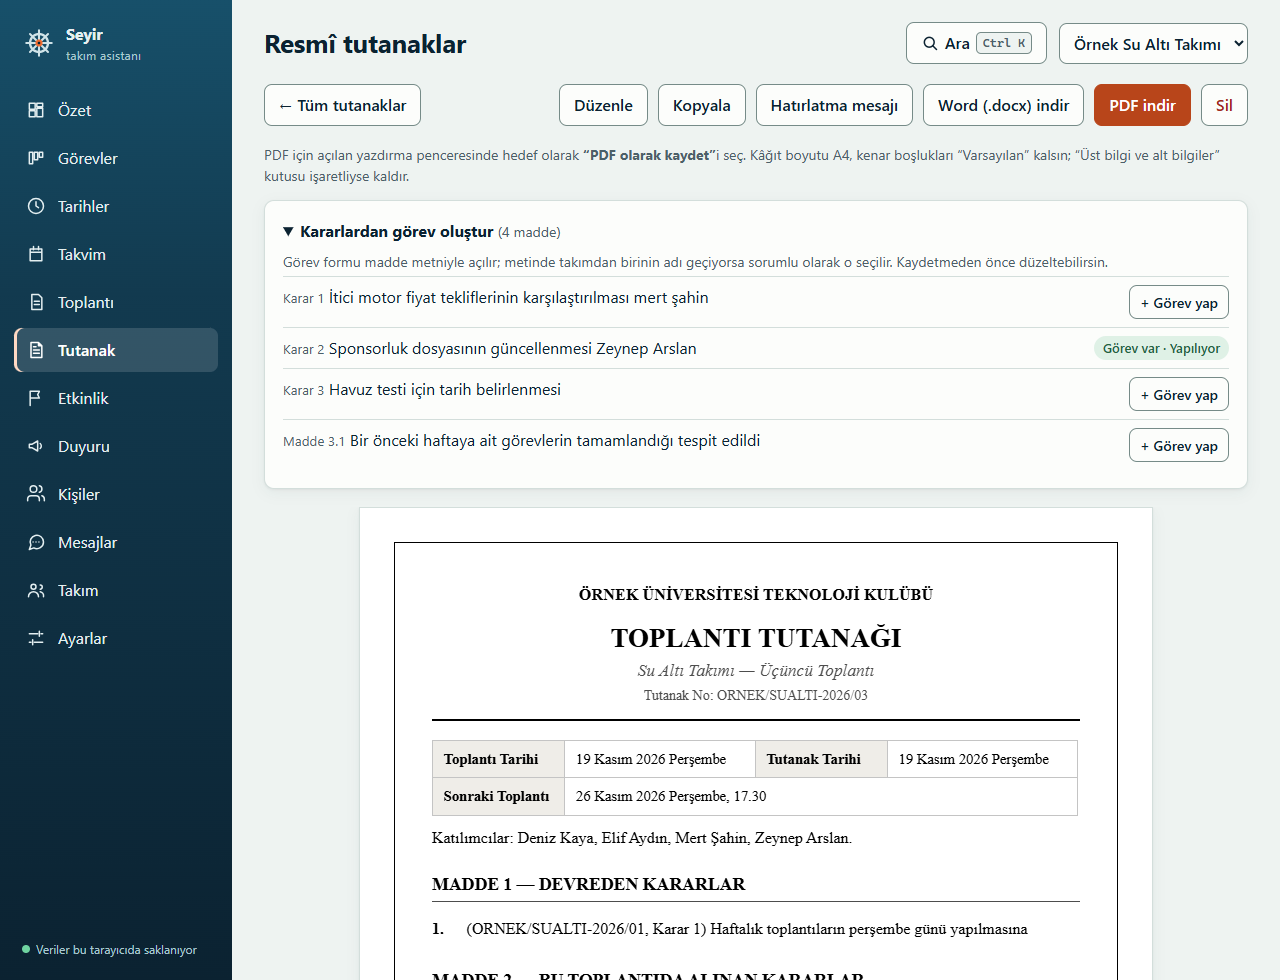
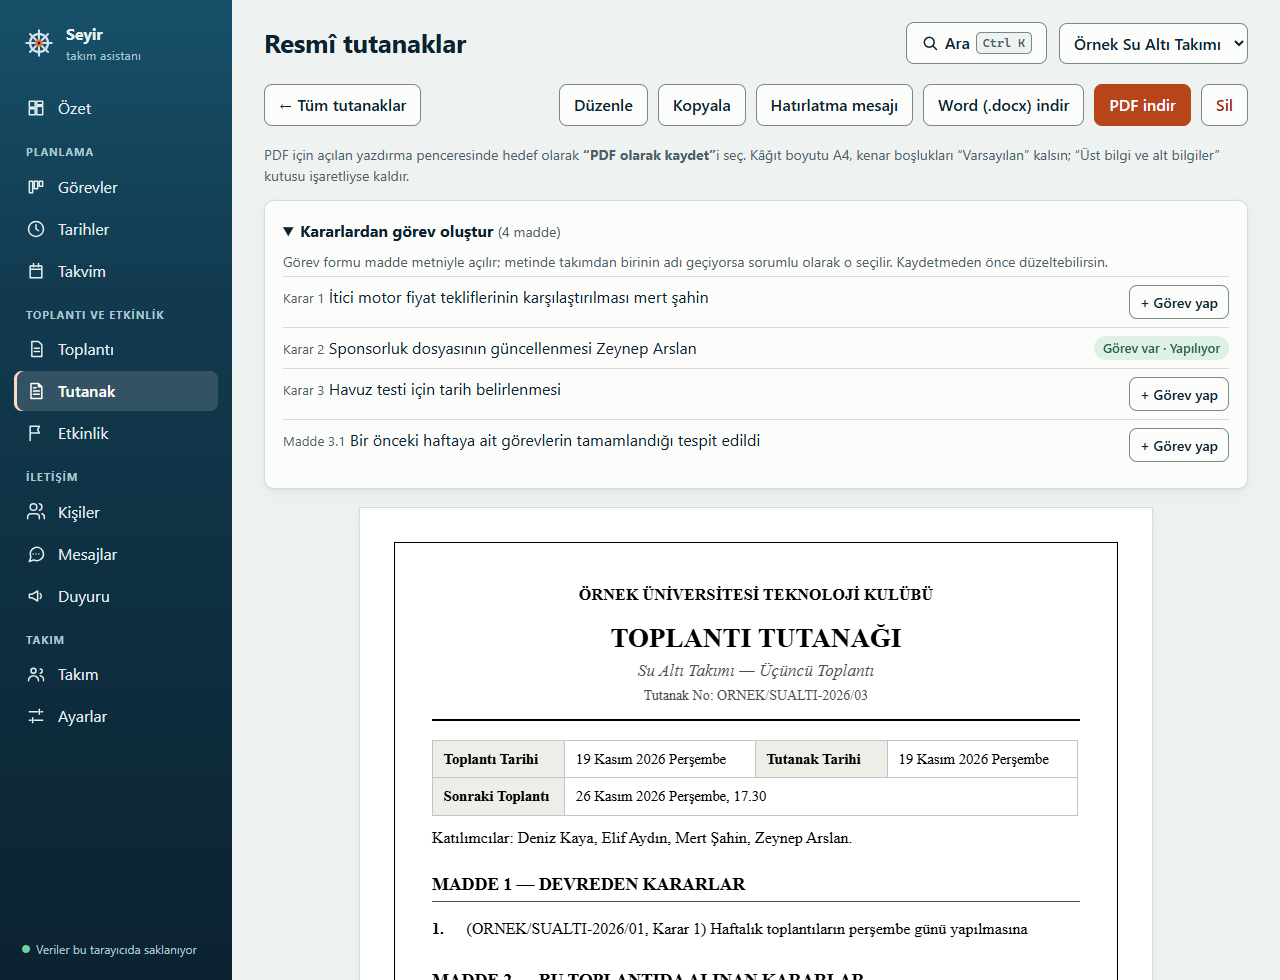
Menü gruplandı; telefonda alt çubukta 4 ana ekran ve 'Daha fazla'
Masaüstünde yan menü Planlama / Toplantı ve etkinlik / İletişim / Takım
başlıklarıyla bölündü. Telefonda alt çubuk artık yana kaymıyor: Özet,
Görevler, Takvim, Tutanak ve bütün ekranları karolar hâlinde açan
'Daha fazla'. Dar ekranda görev kartının ◀ ▶ düğmeleri her zaman görünür.

Changed region(s): [[0.0, 0.1531, 0.1875, 0.6122], [0.0312, 0.6429, 0.0938, 0.7041], [0.0, 0.0918, 0.0625, 0.1224]]

diff --git a/js/uygulama.js b/js/uygulama.js
@@ -53,25 +53,85 @@ function takimSeciciCiz() {
 
 /* ---------- Menü ---------- */
 
+/* Menü grupları. Masaüstünde yan menü bu başlıklarla bölünür. Telefonda alt
+   çubukta yalnızca ALT_CUBUK'taki 4 ekran ve "Daha fazla" düğmesi görünür;
+   gerisi "Daha fazla" penceresinde. Gruplarda olmayan bir ekran eklenirse
+   menünün sonuna düşer (unutulup kaybolmaz). */
+const MENU_GRUPLARI = [
+  { baslik: "", ekranlar: ["ozet"] },
+  { baslik: "Planlama", ekranlar: ["gorevler", "tarihler", "takvim"] },
+  { baslik: "Toplantı ve etkinlik", ekranlar: ["toplantilar", "tutanaklar", "etkinlikler"] },
+  { baslik: "İletişim", ekranlar: ["kisiler", "mesajlar", "duyuru"] },
+  { baslik: "Takım", ekranlar: ["takim", "ayarlar"] },
+];
+const ALT_CUBUK = ["ozet", "gorevler", "takvim", "tutanaklar"];
+const DAHA_FAZLA_SIMGE = "M5 12h.01M12 12h.01M19 12h.01";
+
+function menuGruplari() {
+  const grupta = new Set(MENU_GRUPLARI.flatMap((g) => g.ekranlar));
+  return [
+    ...MENU_GRUPLARI.map((g) => ({ baslik: g.baslik, ekranlar: g.ekranlar.filter((ad) => EKRANLAR[ad]) })),
+    { baslik: "", ekranlar: EKRAN_SIRASI.filter((ad) => !grupta.has(ad)) },
+  ].filter((g) => g.ekranlar.length);
+}
+
+function menuDugmesi(ad, sinif) {
+  return '<button type="button" class="' + sinif + '" data-ekran="' + ad + '">' +
+    simgeHtml(EKRANLAR[ad].simge) + "<span>" + EKRANLAR[ad].kisaAd + "</span></button>";
+}
+
 // Menü bir kez çizilir. Sonradan yalnızca "hangi ekran açık" işareti
 // güncellenir; böylece menüdeki klavye odağı kaybolmaz (RAPOR.md > E1).
 function menuCiz() {
-  sec("#menu").innerHTML = EKRAN_SIRASI.map((ad) =>
-    '<button type="button" data-ekran="' + ad + '">' +
-    simgeHtml(EKRANLAR[ad].simge) + "<span>" + EKRANLAR[ad].kisaAd + "</span></button>"
-  ).join("");
+  sec("#menu").innerHTML = menuGruplari().map((g) =>
+    '<div class="menu-grup" role="group"' + (g.baslik ? ' aria-label="' + g.baslik + '"' : "") + ">" +
+    (g.baslik ? '<p class="menu-grup-baslik" aria-hidden="true">' + g.baslik + "</p>" : "") +
+    g.ekranlar.map((ad) => menuDugmesi(ad, ALT_CUBUK.includes(ad) ? "" : "ikincil")).join("") +
+    "</div>").join("") +
+    '<button type="button" class="daha-fazla" data-daha-fazla aria-haspopup="dialog">' +
+    simgeHtml(DAHA_FAZLA_SIMGE) + "<span>Daha fazla</span></button>";
 }
 
 function menuGuncelle() {
   for (const dugme of document.querySelectorAll("#menu [data-ekran]")) {
-    if (dugme.dataset.ekran === durum.ekran) {
-      dugme.setAttribute("aria-current", "page");
-      // Mobilde sekme çubuğu yana kayar; açık sekme görünür olsun.
-      dugme.scrollIntoView({ block: "nearest", inline: "nearest" });
-    } else {
-      dugme.removeAttribute("aria-current");
-    }
+    if (dugme.dataset.ekran === durum.ekran) dugme.setAttribute("aria-current", "page");
+    else dugme.removeAttribute("aria-current");
   }
+  // Telefonda açık ekran alt çubukta yoksa "Daha fazla" işaretli görünsün
+  const dahaFazla = sec("#menu [data-daha-fazla]");
+  if (dahaFazla) dahaFazla.classList.toggle("aktif", !!durum.ekran && !ALT_CUBUK.includes(durum.ekran));
+}
+
+// Menüden (ya da "Daha fazla"dan) bir ekrana geçiş: ekran ilk hâline döner (ör. açık tutanak kapanır).
+function menudenGit(ad) {
+  const ekran = EKRANLAR[ad];
+  if (!ekran) return;
+  if (ekran.sifirla) ekran.sifirla();
+  ekranaGit(ad);
+}
+
+// Telefonda "Daha fazla": bütün ekranlar gruplarıyla, dokunmaya uygun karolar hâlinde.
+function dahaFazlaAc() {
+  const pencere = sec("#pencere");
+  if (pencere.open) return;
+  pencere.setAttribute("aria-labelledby", "pencere-baslik");
+  pencere.innerHTML =
+    '<div class="form daha-fazla-panel"><h2 id="pencere-baslik">Bütün ekranlar</h2>' +
+    menuGruplari().map((g) =>
+      (g.baslik ? "<h3>" + g.baslik + "</h3>" : "") +
+      '<div class="ekran-karolari">' + g.ekranlar.map((ad) =>
+        menuDugmesi(ad, "ekran-karo").replace("<button", ad === durum.ekran ? '<button aria-current="page"' : "<button")).join("") +
+      "</div>").join("") +
+    '<div class="form-dugmeler"><button type="button" class="dugme" data-kapat>Kapat</button></div></div>';
+  const panel = pencere.querySelector(".daha-fazla-panel");
+  panel.onclick = (olay) => {
+    if (olay.target.closest("[data-kapat]")) return pencere.close();
+    const dugme = olay.target.closest("[data-ekran]");
+    if (!dugme) return;
+    pencere.close();
+    menudenGit(dugme.dataset.ekran);
+  };
+  pencere.showModal();
 }
 
 // Adres çubuğundaki #gorevler gibi kısmı değiştirir; asıl çizimi
@@ -230,12 +290,9 @@ async function baslat() {
 
   menuCiz();
   sec("#menu").onclick = (olay) => {
+    if (olay.target.closest("[data-daha-fazla]")) return dahaFazlaAc();
     const dugme = olay.target.closest("[data-ekran]");
-    if (!dugme) return;
-    const ekran = EKRANLAR[dugme.dataset.ekran];
-    // Menüden basılınca ekran ilk hâline döner (ör. açık tutanak kapanır).
-    if (ekran.sifirla) ekran.sifirla();
-    ekranaGit(dugme.dataset.ekran);
+    if (dugme) menudenGit(dugme.dataset.ekran);
   };
   sec("#takim-sec").onchange = async (olay) => {
     await takimSec(olay.target.value);

diff --git a/css/stil.css b/css/stil.css
@@ -163,10 +163,16 @@ a { color: var(--su); }
 .marka svg { width: 34px; height: 34px; flex: none; }
 .marka small { display: block; font-weight: 400; font-size: 12px; color: var(--gece-soluk); letter-spacing: .02em; }
 
-.menu { display: flex; flex-direction: column; gap: 4px; }
+.menu { display: flex; flex-direction: column; gap: 2px; }
+.menu-grup { display: flex; flex-direction: column; gap: 2px; }
+.menu-grup-baslik {
+  margin: 14px 12px 4px; font-size: 11px; font-weight: 700;
+  letter-spacing: .08em; text-transform: uppercase; color: var(--gece-soluk);
+}
+.menu .daha-fazla { display: none; }
 .menu button {
   display: flex; align-items: center; gap: 12px;
-  width: 100%; padding: 10px 12px;
+  width: 100%; padding: 8px 12px;
   border: 0; border-radius: 8px; background: none;
   color: inherit; text-align: left; cursor: pointer;
 }
@@ -619,10 +625,13 @@ dialog::backdrop { background: var(--perde); }
     overflow: visible;
   }
   .marka, .yan-alt { display: none; }
-  .menu { flex-direction: row; gap: 0; overflow-x: auto; scrollbar-width: none; }
-  .menu::-webkit-scrollbar { display: none; }
-  .menu button { flex: 1 0 64px; flex-direction: column; gap: 2px; min-height: 52px; padding: 7px 2px; font-size: 11px; text-align: center; }
-  .menu button[aria-current="page"] { box-shadow: inset 0 3px 0 var(--gece-vurgu); }
+  /* Alt çubuk: 4 ana ekran + "Daha fazla" (gerisi orada; js/uygulama.js > ALT_CUBUK) */
+  .menu { flex-direction: row; gap: 0; }
+  .menu-grup { display: contents; }
+  .menu-grup-baslik, .menu .ikincil { display: none; }
+  .menu .daha-fazla { display: flex; }
+  .menu button { flex: 1 1 0; min-width: 0; flex-direction: column; gap: 2px; min-height: 52px; padding: 7px 2px; font-size: 11px; text-align: center; }
+  .menu button[aria-current="page"], .menu .daha-fazla.aktif { background: rgba(255, 255, 255, .14); color: #ffffff; font-weight: 600; box-shadow: inset 0 3px 0 var(--gece-vurgu); }
   .ust { padding: 16px 16px 0; }
   .ust h1 { font-size: 22px; }
   .takim-sec { max-width: 46vw; }
@@ -738,3 +747,21 @@ dialog::backdrop { background: var(--perde); }
 }
 @media (hover: none) { .gorev-alt .gorev-dugmeler .dugme { min-height: 40px; min-width: 40px; } }
 .form-dugmeler .form-sil { margin-right: auto; }
+
+/* "Daha fazla" penceresi (telefonda bütün ekranlar; js/uygulama.js > dahaFazlaAc) */
+.daha-fazla-panel h3 { margin: 14px 0 8px; font-size: 12px; letter-spacing: .08em; text-transform: uppercase; color: var(--soluk); }
+.ekran-karolari { display: grid; grid-template-columns: repeat(3, 1fr); gap: 8px; }
+.ekran-karo {
+  display: flex; flex-direction: column; align-items: center; justify-content: center; gap: 6px;
+  min-height: 76px; padding: 10px 4px; border: 1px solid var(--cizgi); border-radius: 10px;
+  background: var(--kagit); color: var(--yazi); font: inherit; font-size: 13px; font-weight: 600; cursor: pointer;
+}
+.ekran-karo svg { width: 22px; height: 22px; fill: none; stroke: currentColor; stroke-width: 1.8; stroke-linecap: round; stroke-linejoin: round; }
+.ekran-karo[aria-current="page"] { border-color: var(--vurgu); box-shadow: inset 0 0 0 1px var(--vurgu); }
+.ekran-karo:hover { background: var(--rozet-z); }
+/* Dar ekranda (telefon, tablet) ◀ ▶ her zaman görünür: fare üstüne gelme yok */
+@media (max-width: 820px) {
+  .gorev-alt .gorev-dugmeler { opacity: 1; }
+  .gorev-alt .gorev-dugmeler .dugme { min-height: 40px; min-width: 40px; }
+}
+.menu .daha-fazla svg { stroke-width: 3.4; }
